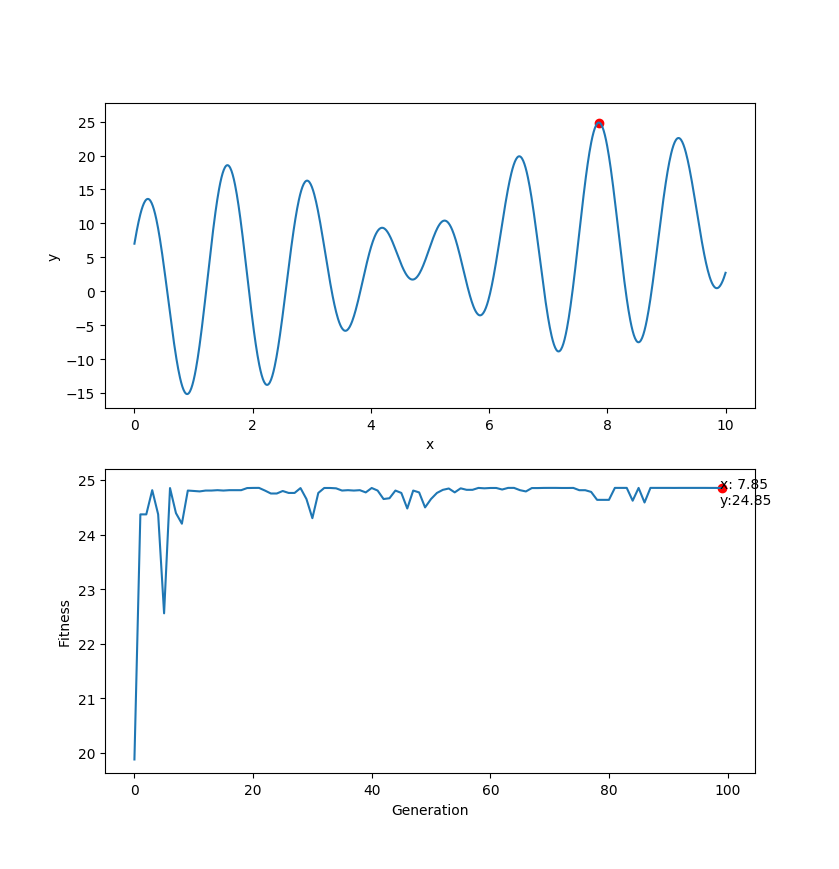
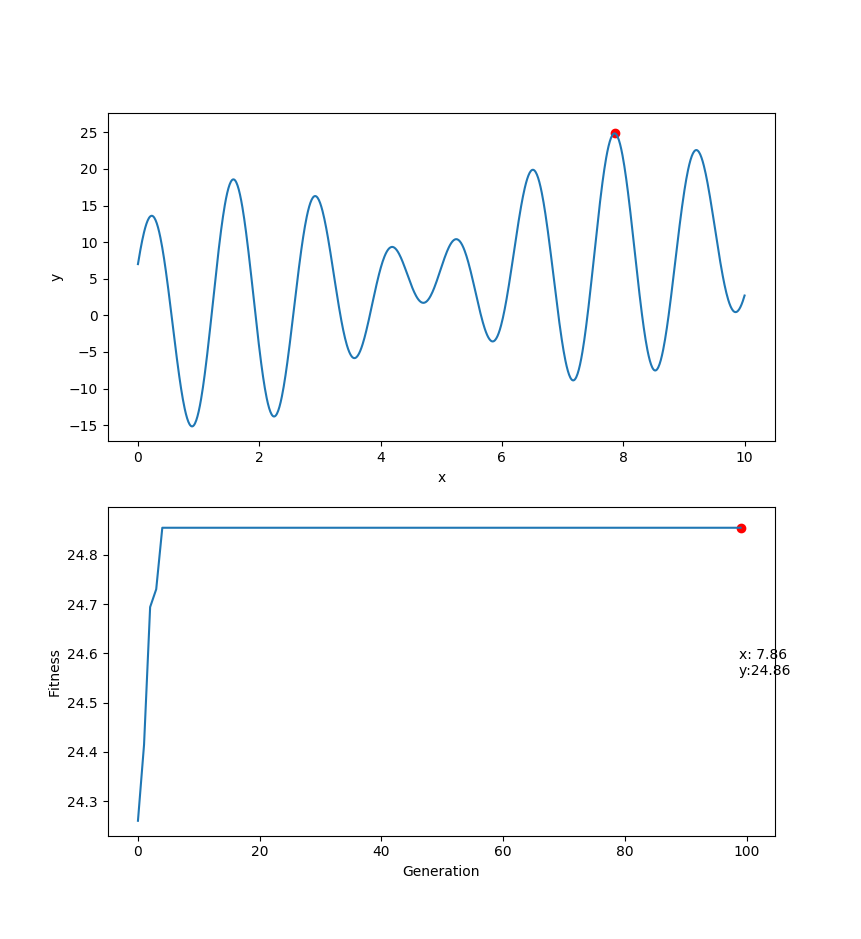
Use binary tournament selection operator.

diff --git a/examples/ex01/best_fit.py b/examples/ex01/best_fit.py
@@ -1,103 +1,103 @@
 best_fit = [
-    (0, [6.507141985105603], 19.881317625461776),
-    (1, [7.908680258820657], 24.37013189454432),
-    (2, [7.908680258820657], 24.37013189454432),
-    (3, [7.8415333903064335], 24.813493897999866),
-    (4, [7.908680258820657], 24.37013189454432),
-    (5, [9.19301672567452], 22.557675291193533),
-    (6, [7.861067024783298], 24.851981169179787),
-    (7, [7.806128677817116], 24.393409782429735),
-    (8, [7.796361860578684], 24.19911905255966),
-    (9, [7.84031253815163], 24.80650543779501),
-    (10, [7.839091685996825], 24.79897854471899),
-    (11, [7.837870833842022], 24.790913427569503),
-    (12, [7.84031253815163], 24.80650543779501),
-    (13, [7.84031253815163], 24.80650543779501),
-    (14, [7.8415333903064335], 24.813493897999866),
-    (15, [7.84031253815163], 24.80650543779501),
-    (16, [7.8415333903064335], 24.813493897999866),
-    (17, [7.8415333903064335], 24.813493897999866),
-    (18, [7.8415333903064335], 24.813493897999866),
-    (19, [7.85252105969967], 24.852134938049172),
-    (20, [7.8549627640092785], 24.8547885307975),
-    (21, [7.857404468318887], 24.855283955426152),
-    (22, [7.84031253815163], 24.80650543779501),
-    (23, [7.880600659260163], 24.7525171810843),
-    (24, [7.880600659260163], 24.7525171810843),
-    (25, [7.874496398486143], 24.798380872207762),
-    (26, [7.87937980710536], 24.762762007368558),
-    (27, [7.87937980710536], 24.762762007368558),
-    (28, [7.861067024783298], 24.851981169179787),
-    (29, [7.890367476498596], 24.6513229652951),
-    (30, [7.8012452691979], 24.30044802897503),
-    (31, [7.87937980710536], 24.762762007368558),
-    (32, [7.859846172628495], 24.85362146971059),
-    (33, [7.859846172628495], 24.85362146971059),
-    (34, [7.850079355390062], 24.847323205244805),
-    (35, [7.84031253815163], 24.80650543779501),
-    (36, [7.8415333903064335], 24.813493897999866),
-    (37, [7.84031253815163], 24.80650543779501),
-    (38, [7.8415333903064335], 24.813493897999866),
-    (39, [7.878158954950555], 24.77247114262975),
-    (40, [7.859846172628495], 24.85362146971059),
-    (41, [7.84031253815163], 24.80650543779501),
-    (42, [7.890367476498596], 24.6513229652951),
-    (43, [7.889146624343792], 24.665838166971533),
-    (44, [7.84031253815163], 24.80650543779501),
-    (45, [7.87937980710536], 24.762762007368558),
-    (46, [7.811012086436333], 24.477957667683885),
-    (47, [7.84031253815163], 24.80650543779501),
-    (48, [7.878158954950555], 24.77247114262975),
-    (49, [7.812232938591136], 24.49777492953207),
-    (50, [7.890367476498596], 24.6513229652951),
-    (51, [7.87937980710536], 24.762762007368558),
-    (52, [7.870833842021731], 24.819457420225586),
-    (53, [7.848858503235258], 24.844108123250468),
-    (54, [7.835429129532414], 24.77316944533269),
-    (55, [7.850079355390062], 24.847323205244805),
-    (56, [7.842754242461238], 24.819943734362976),
-    (57, [7.842754242461238], 24.819943734362976),
-    (58, [7.85862532047369], 24.854722424085537),
-    (59, [7.850079355390062], 24.847323205244805),
-    (60, [7.859846172628495], 24.85362146971059),
-    (61, [7.853741911854474], 24.853731510383817),
-    (62, [7.869612989866927], 24.825407580207514),
+    (0, [7.799249618590482], 24.260047195545532),
+    (1, [7.906238554511049], 24.414459891004864),
+    (2, [7.826883164448785], 24.694150555683564),
+    (3, [7.883042363569771], 24.730421991621732),
+    (4, [7.856183616164082], 24.855306004714947),
+    (5, [7.856183616164082], 24.855306004714947),
+    (6, [7.856183616164082], 24.855306004714947),
+    (7, [7.856183616164082], 24.855306004714947),
+    (8, [7.856183616164082], 24.855306004714947),
+    (9, [7.856183616164082], 24.855306004714947),
+    (10, [7.856183616164082], 24.855306004714947),
+    (11, [7.856183616164082], 24.855306004714947),
+    (12, [7.856183616164082], 24.855306004714947),
+    (13, [7.856183616164082], 24.855306004714947),
+    (14, [7.856183616164082], 24.855306004714947),
+    (15, [7.856183616164082], 24.855306004714947),
+    (16, [7.856183616164082], 24.855306004714947),
+    (17, [7.856183616164082], 24.855306004714947),
+    (18, [7.856183616164082], 24.855306004714947),
+    (19, [7.856183616164082], 24.855306004714947),
+    (20, [7.856183616164082], 24.855306004714947),
+    (21, [7.856183616164082], 24.855306004714947),
+    (22, [7.856183616164082], 24.855306004714947),
+    (23, [7.856183616164082], 24.855306004714947),
+    (24, [7.856183616164082], 24.855306004714947),
+    (25, [7.856183616164082], 24.855306004714947),
+    (26, [7.856183616164082], 24.855306004714947),
+    (27, [7.856183616164082], 24.855306004714947),
+    (28, [7.856183616164082], 24.855306004714947),
+    (29, [7.856183616164082], 24.855306004714947),
+    (30, [7.856183616164082], 24.855306004714947),
+    (31, [7.856183616164082], 24.855306004714947),
+    (32, [7.856183616164082], 24.855306004714947),
+    (33, [7.856183616164082], 24.855306004714947),
+    (34, [7.856183616164082], 24.855306004714947),
+    (35, [7.856183616164082], 24.855306004714947),
+    (36, [7.856183616164082], 24.855306004714947),
+    (37, [7.856183616164082], 24.855306004714947),
+    (38, [7.856183616164082], 24.855306004714947),
+    (39, [7.856183616164082], 24.855306004714947),
+    (40, [7.856183616164082], 24.855306004714947),
+    (41, [7.856183616164082], 24.855306004714947),
+    (42, [7.856183616164082], 24.855306004714947),
+    (43, [7.856183616164082], 24.855306004714947),
+    (44, [7.856183616164082], 24.855306004714947),
+    (45, [7.856183616164082], 24.855306004714947),
+    (46, [7.856183616164082], 24.855306004714947),
+    (47, [7.856183616164082], 24.855306004714947),
+    (48, [7.856183616164082], 24.855306004714947),
+    (49, [7.856183616164082], 24.855306004714947),
+    (50, [7.856183616164082], 24.855306004714947),
+    (51, [7.856183616164082], 24.855306004714947),
+    (52, [7.856183616164082], 24.855306004714947),
+    (53, [7.856183616164082], 24.855306004714947),
+    (54, [7.856183616164082], 24.855306004714947),
+    (55, [7.856183616164082], 24.855306004714947),
+    (56, [7.856183616164082], 24.855306004714947),
+    (57, [7.856183616164082], 24.855306004714947),
+    (58, [7.856183616164082], 24.855306004714947),
+    (59, [7.856183616164082], 24.855306004714947),
+    (60, [7.856183616164082], 24.855306004714947),
+    (61, [7.856183616164082], 24.855306004714947),
+    (62, [7.856183616164082], 24.855306004714947),
     (63, [7.856183616164082], 24.855306004714947),
-    (64, [7.857404468318887], 24.855283955426152),
-    (65, [7.8415333903064335], 24.813493897999866),
-    (66, [7.875717250640947], 24.790280910305828),
-    (67, [7.85252105969967], 24.852134938049172),
-    (68, [7.85252105969967], 24.852134938049172),
-    (69, [7.8549627640092785], 24.8547885307975),
-    (70, [7.857404468318887], 24.855283955426152),
-    (71, [7.857404468318887], 24.855283955426152),
-    (72, [7.853741911854474], 24.853731510383817),
-    (73, [7.853741911854474], 24.853731510383817),
-    (74, [7.85862532047369], 24.854722424085537),
-    (75, [7.872054694176535], 24.81296940910337),
-    (76, [7.872054694176535], 24.81296940910337),
-    (77, [7.8769381027957515], 24.781644224987218),
-    (78, [7.8915883286534], 24.636276125823112),
-    (79, [7.8915883286534], 24.636276125823112),
-    (80, [7.8915883286534], 24.636276125823112),
+    (64, [7.856183616164082], 24.855306004714947),
+    (65, [7.856183616164082], 24.855306004714947),
+    (66, [7.856183616164082], 24.855306004714947),
+    (67, [7.856183616164082], 24.855306004714947),
+    (68, [7.856183616164082], 24.855306004714947),
+    (69, [7.856183616164082], 24.855306004714947),
+    (70, [7.856183616164082], 24.855306004714947),
+    (71, [7.856183616164082], 24.855306004714947),
+    (72, [7.856183616164082], 24.855306004714947),
+    (73, [7.856183616164082], 24.855306004714947),
+    (74, [7.856183616164082], 24.855306004714947),
+    (75, [7.856183616164082], 24.855306004714947),
+    (76, [7.856183616164082], 24.855306004714947),
+    (77, [7.856183616164082], 24.855306004714947),
+    (78, [7.856183616164082], 24.855306004714947),
+    (79, [7.856183616164082], 24.855306004714947),
+    (80, [7.856183616164082], 24.855306004714947),
     (81, [7.856183616164082], 24.855306004714947),
     (82, [7.856183616164082], 24.855306004714947),
     (83, [7.856183616164082], 24.855306004714947),
-    (84, [7.892809180808204], 24.620698187109237),
-    (85, [7.8549627640092785], 24.8547885307975),
-    (86, [7.895250885117812], 24.587951254029928),
+    (84, [7.856183616164082], 24.855306004714947),
+    (85, [7.856183616164082], 24.855306004714947),
+    (86, [7.856183616164082], 24.855306004714947),
     (87, [7.856183616164082], 24.855306004714947),
-    (88, [7.857404468318887], 24.855283955426152),
-    (89, [7.857404468318887], 24.855283955426152),
-    (90, [7.857404468318887], 24.855283955426152),
-    (91, [7.85862532047369], 24.854722424085537),
-    (92, [7.857404468318887], 24.855283955426152),
-    (93, [7.857404468318887], 24.855283955426152),
-    (94, [7.857404468318887], 24.855283955426152),
-    (95, [7.857404468318887], 24.855283955426152),
-    (96, [7.857404468318887], 24.855283955426152),
-    (97, [7.8549627640092785], 24.8547885307975),
-    (98, [7.8549627640092785], 24.8547885307975),
-    (99, [7.853741911854474], 24.853731510383817),
+    (88, [7.856183616164082], 24.855306004714947),
+    (89, [7.856183616164082], 24.855306004714947),
+    (90, [7.856183616164082], 24.855306004714947),
+    (91, [7.856183616164082], 24.855306004714947),
+    (92, [7.856183616164082], 24.855306004714947),
+    (93, [7.856183616164082], 24.855306004714947),
+    (94, [7.856183616164082], 24.855306004714947),
+    (95, [7.856183616164082], 24.855306004714947),
+    (96, [7.856183616164082], 24.855306004714947),
+    (97, [7.856183616164082], 24.855306004714947),
+    (98, [7.856183616164082], 24.855306004714947),
+    (99, [7.856183616164082], 24.855306004714947),
 ]
 

diff --git a/examples/ex01/ex01.py b/examples/ex01/ex01.py
@@ -10,7 +10,7 @@ from math import sin, cos
 from gaft import GAEngine
 from gaft.components import GAIndividual
 from gaft.components import GAPopulation
-from gaft.operators import RouletteWheelSelection
+from gaft.operators import RouletteWheelSelection, TournamentSelection
 from gaft.operators import UniformCrossover
 from gaft.operators import FlipBitMutation
 
@@ -25,7 +25,8 @@ indv_template = GAIndividual(ranges=[(0, 10)], encoding='binary', eps=0.001)
 population = GAPopulation(indv_template=indv_template, size=50).init()
 
 # Create genetic operators.
-selection = RouletteWheelSelection()
+#selection = RouletteWheelSelection()
+selection = TournamentSelection()
 crossover = UniformCrossover(pc=0.8, pe=0.5)
 mutation = FlipBitMutation(pm=0.1)
 
